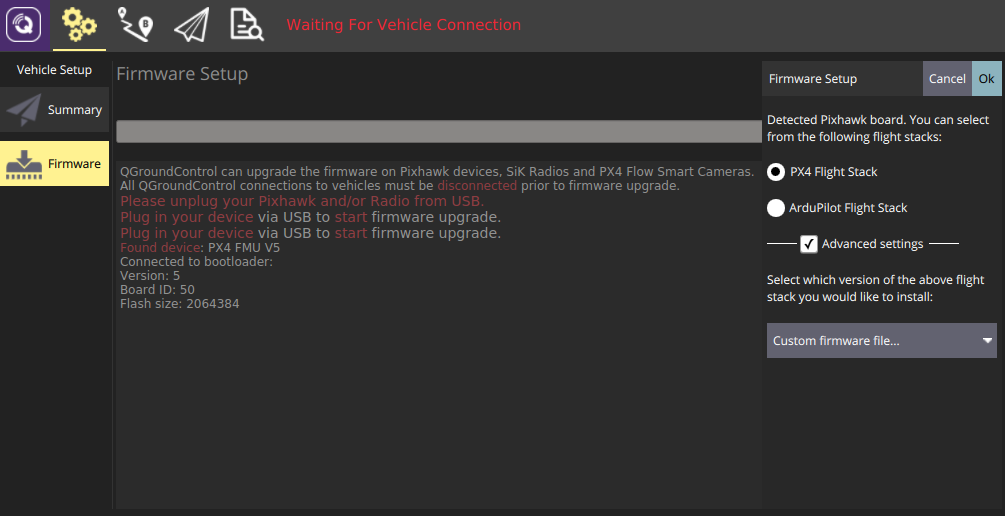
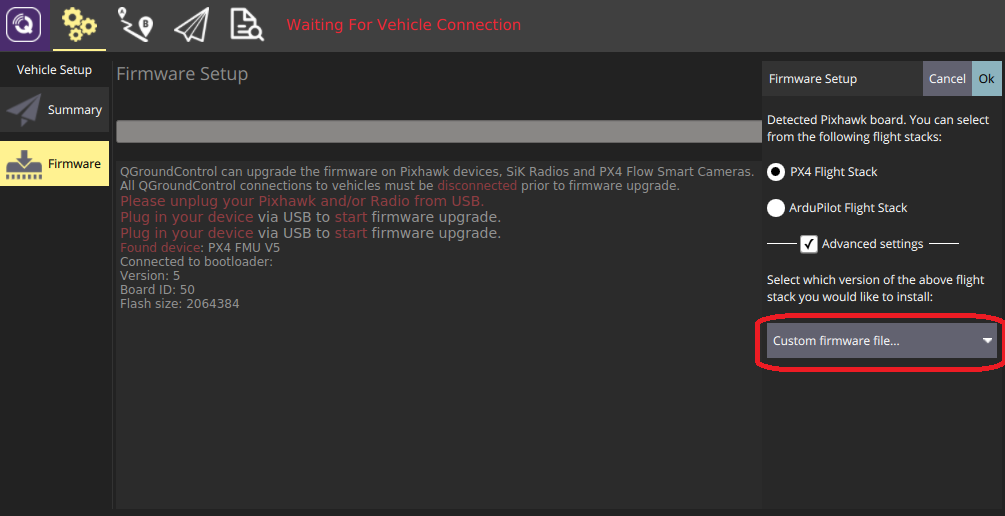
Tidy text for adding airframe to QGC

Changed region(s): [[0.7403, 0.5891, 1.0, 0.7132], [0.7711, 0.7132, 0.9871, 0.7442]]

diff --git a/en/airframes/adding_a_new_frame.md b/en/airframes/adding_a_new_frame.md
@@ -197,17 +197,20 @@ The following *PX4 User Guide* topics explain how to tune the parameters that wi
 * [VTOL Configuration](https://docs.px4.io/en/config_vtol/)
 
 
+## Add New Airframe to QGroundControl
 
-## Getting a New Airframe to Show in QGroundControl
+To make a new airframe available for section in the *QGroundControl* [airframe configuration](https://docs.px4.io/en/config/airframe.html):
 
-* After a clean build (e.g. by running `make clean` and then `make px4fmu-v5_default upload`), open QGC and flash a "Custom firmware file..." as shown below:
+1. Make a clean build (e.g. by running `make clean` and then `make px4fmu-v5_default upload`)
+1. Open QGC and select **Custom firmware file...** as shown below:
 
-![QGC flash custom firmware](../../assets/gcs/qgc_flash_custom_firmware.png)
+  ![QGC flash custom firmware](../../assets/gcs/qgc_flash_custom_firmware.png)
+  
+  You will be asked to choose the **.px4** firmware file to flash (this file is a zipped JSON file and contains the airframe metadata). 
+1. Navigate to the build folder and select the firmware file (e.g. **Firmware/build/px4fmu-v5_default/px4fmu-v5_default.px4**).
+1. Press **OK** to start flashing the firmware.
+1. Restart *QGroundControl*.
 
-* You will be asked to chose the .px4 firmware file to flash. This file is a zipped JSON file and contains the airframe meta data. Navigate to the build folder: wherever/Firmware/build/px4fmu-v5_default and select px4fmu-v5_default.px4.  
-
-* Press ok to start flashing the firmware.
-
-* The new airframe will then be available in the user interface once you restart *QGroundControl*.  
+The new airframe will then be available for selection in *QGroundControl*.
 
 
